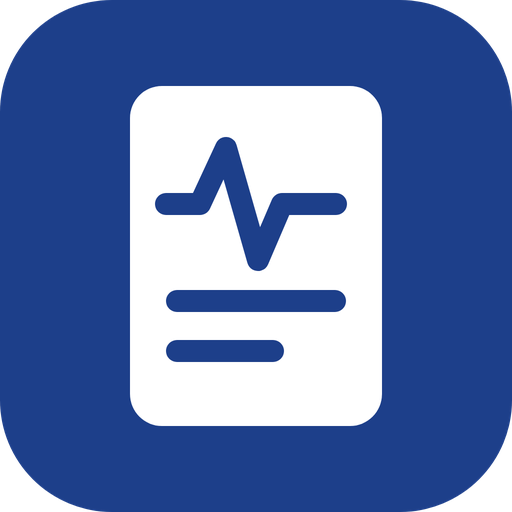
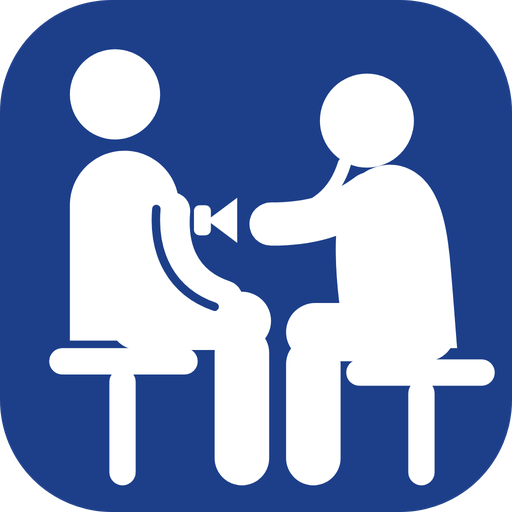
ref r21: アイコンを診察シーンのピクトグラムへ

diff --git a/ref/sw.js b/ref/sw.js
@@ -1,4 +1,4 @@
-const CACHE = 'ref-20261101-r20';
+const CACHE = 'ref-20261101-r21';
 const ASSETS = [
   './',
   './index.html',
